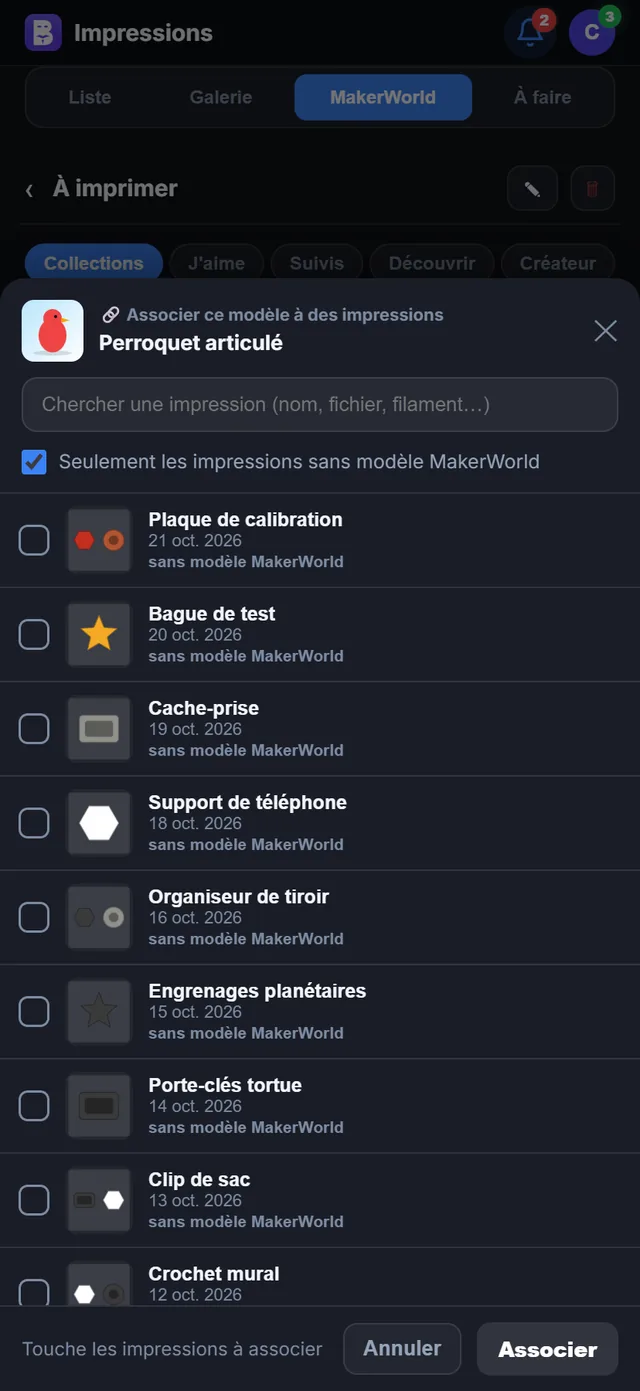
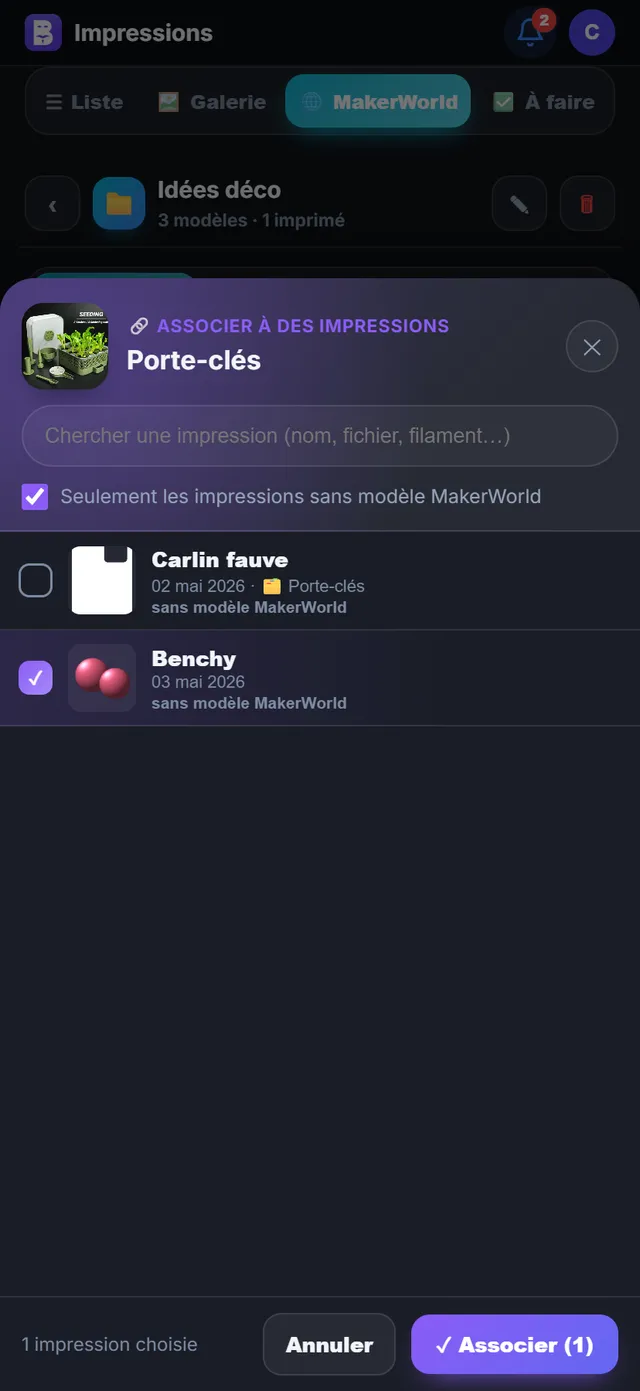
MakerWorld : fenêtre « Associer à des impressions » restylée (en-tête violet, recherche en pilule, coches et bouton en dégradé)

diff --git a/frontend/src/components/MwAssignPicker.jsx b/frontend/src/components/MwAssignPicker.jsx
@@ -70,29 +70,31 @@ export default function MwAssignPicker() {
     <div onClick={clear} style={{ position:"fixed", inset:0, zIndex:4500, background:"rgba(0,0,0,0.55)", display:"flex",
       alignItems:"flex-end", justifyContent:"center" }}>
       <div onClick={e => e.stopPropagation()} style={{ width:"100%", maxWidth:560, height:"min(720px, 90dvh)", display:"flex",
-        flexDirection:"column", background:"var(--sheet-bg, var(--surface))", borderRadius:"16px 16px 0 0",
+        flexDirection:"column", background:"var(--sheet-bg, var(--surface))", borderRadius:"22px 22px 0 0",
         boxShadow:"0 -8px 30px rgba(0,0,0,.35)", overflow:"hidden" }}>
         {/* le modele a associer */}
-        <div style={{ padding:"14px 14px 10px", display:"flex", flexDirection:"column", gap:10, borderBottom:"1px solid var(--border)" }}>
-          <div style={{ display:"flex", alignItems:"center", gap:10 }}>
+        <div style={{ padding:"16px 14px 12px", display:"flex", flexDirection:"column", gap:10, borderBottom:"1px solid var(--border)",
+          background:"radial-gradient(circle at 12% 30%, rgba(139,92,246,0.35), transparent 60%), linear-gradient(135deg, rgba(139,92,246,0.14), transparent 70%), var(--surface2)" }}>
+          <div style={{ display:"flex", alignItems:"center", gap:12 }}>
             {item.cover_url
-              ? <img src={mwImg(item.cover_url, 44)} alt="" style={{ width:40, height:40, borderRadius:8, objectFit:"cover", flexShrink:0 }}/>
-              : <span style={{ width:40, height:40, borderRadius:8, background:"var(--surface2)", flexShrink:0 }}/>}
+              ? <img src={mwImg(item.cover_url, 120)} alt="" style={{ width:56, height:56, borderRadius:14, objectFit:"cover", flexShrink:0,
+                  boxShadow:"0 8px 18px -8px rgba(0,0,0,.5)" }}/>
+              : <span style={{ width:56, height:56, borderRadius:14, background:"var(--surface)", flexShrink:0 }}/>}
             <div style={{ flex:1, minWidth:0 }}>
-              <div style={{ fontSize:11, color:"var(--muted)", fontWeight:700 }}>🔗 Associer ce modèle à des impressions</div>
-              <div style={{ fontSize:13.5, fontWeight:800, color:"var(--text)", overflow:"hidden", textOverflow:"ellipsis",
+              <div style={{ fontSize:11.5, color:"#8B5CF6", fontWeight:900, letterSpacing:".04em", textTransform:"uppercase" }}>🔗 Associer à des impressions</div>
+              <div style={{ fontSize:17, fontWeight:900, color:"var(--text)", overflow:"hidden", textOverflow:"ellipsis",
                 whiteSpace:"nowrap" }}>{title}</div>
             </div>
-            <button type="button" onClick={clear} aria-label="Fermer" style={{ background:"none", border:"none", fontSize:20,
-              color:"var(--muted)", cursor:"pointer", lineHeight:1 }}>✕</button>
+            <button type="button" onClick={clear} aria-label="Fermer" style={{ width:34, height:34, borderRadius:"50%", border:"1px solid var(--border)",
+              background:"var(--surface)", fontSize:15, color:"var(--text2)", cursor:"pointer", flexShrink:0 }}>✕</button>
           </div>
           <input value={q} onChange={e => setQ(e.target.value)} placeholder="Chercher une impression (nom, fichier, filament…)"
             autoComplete="off" spellCheck={false}
-            style={{ width:"100%", boxSizing:"border-box", padding:"9px 12px", borderRadius:10, fontSize:13,
-              background:"var(--surface2)", border:"1px solid var(--border)", color:"var(--text)", outline:"none" }}/>
+            style={{ width:"100%", boxSizing:"border-box", height:40, padding:"0 14px", borderRadius:20, fontSize:13.5,
+              background:"var(--surface)", border:"1px solid var(--border)", color:"var(--text)", outline:"none" }}/>
           <label style={{ display:"flex", alignItems:"center", gap:8, fontSize:12.5, color:"var(--text2)", cursor:"pointer" }}>
             <input type="checkbox" checked={unlinked} onChange={e => setUnlinked(e.target.checked)}
-              style={{ width:16, height:16, accentColor:"#3b82f6" }}/>
+              style={{ width:17, height:17, accentColor:"#8B5CF6" }}/>
             Seulement les impressions sans modèle MakerWorld
           </label>
         </div>
@@ -107,13 +109,13 @@ export default function MwAssignPicker() {
               return (
                 <button key={r.id} type="button" onClick={() => toggle(r.id)} style={{ width:"100%", display:"flex", alignItems:"center",
                   gap:10, padding:"8px 12px", border:"none", borderBottom:"1px solid var(--border)", textAlign:"left", cursor:"pointer",
-                  background: on ? "rgba(59,130,246,0.10)" : "none", color:"var(--text)" }}>
-                  <span style={{ width:20, height:20, borderRadius:6, flexShrink:0, display:"flex", alignItems:"center", justifyContent:"center",
-                    border: on ? "none" : "1.5px solid var(--muted)", background: on ? "#3b82f6" : "none", color:"#fff", fontSize:12,
+                  background: on ? "linear-gradient(90deg, rgba(139,92,246,0.16), transparent 70%)" : "none", color:"var(--text)" }}>
+                  <span style={{ width:22, height:22, borderRadius:7, flexShrink:0, display:"flex", alignItems:"center", justifyContent:"center",
+                    border: on ? "none" : "1.5px solid var(--muted)", background: on ? "linear-gradient(135deg, #8B5CF6, #A78BFA)" : "none", color:"#fff", fontSize:12,
                     fontWeight:900 }}>{on ? "✓" : ""}</span>
                   <Thumb id={r.id}/>
                   <span style={{ flex:1, minWidth:0 }}>
-                    <span style={{ display:"block", fontSize:12.5, fontWeight:700, overflow:"hidden", textOverflow:"ellipsis",
+                    <span style={{ display:"block", fontSize:13.5, fontWeight:800, overflow:"hidden", textOverflow:"ellipsis",
                       whiteSpace:"nowrap" }}>{r.name}</span>
                     <span style={{ display:"block", fontSize:11, color:"var(--muted)", overflow:"hidden", textOverflow:"ellipsis",
                       whiteSpace:"nowrap" }}>{fmtDate(r.date)}{r.group ? ` · 🗂 ${r.group}` : ""}</span>
@@ -126,7 +128,7 @@ export default function MwAssignPicker() {
             })}
           {next != null && rows?.length > 0 && (
             <button type="button" onClick={() => load(next)} style={{ width:"100%", padding:12, border:"none", background:"none",
-              color:"#3b82f6", fontWeight:700, fontSize:12.5, cursor:"pointer" }}>Afficher plus</button>
+              color:"#8B5CF6", fontWeight:800, fontSize:13, cursor:"pointer" }}>⬇ Afficher plus</button>
           )}
         </div>
         <div style={{ padding:"10px 14px calc(10px + env(safe-area-inset-bottom,0px))", borderTop:"1px solid var(--border)",
@@ -136,11 +138,12 @@ export default function MwAssignPicker() {
             {[...sel].some(id => rows?.find(r => r.id === id && r.design_id && String(r.design_id) !== String(item.design_id)))
               && <span style={{ display:"block", color:"#d97706" }}>Certaines ont déjà un autre modèle : il sera remplacé.</span>}
           </span>
-          <button type="button" onClick={clear} style={{ padding:"8px 12px", borderRadius:9, border:"1px solid var(--border)",
-            background:"var(--surface)", color:"var(--text2)", cursor:"pointer", fontWeight:700 }}>Annuler</button>
-          <button type="button" onClick={apply} disabled={busy || !sel.size} style={{ padding:"8px 14px", borderRadius:9, border:"none",
-            fontWeight:800, color:"#fff", background: sel.size ? "#3b82f6" : "var(--border)", cursor: sel.size ? "pointer" : "default" }}>
-            {busy ? "…" : "Associer"}</button>
+          <button type="button" onClick={clear} style={{ padding:"10px 14px", borderRadius:12, border:"1px solid var(--border)",
+            background:"var(--surface2)", color:"var(--text)", cursor:"pointer", fontWeight:800 }}>Annuler</button>
+          <button type="button" onClick={apply} disabled={busy || !sel.size} style={{ padding:"10px 16px", borderRadius:12, border:"none",
+            fontWeight:800, color:"#fff", background: sel.size ? "linear-gradient(135deg, #8B5CF6, #6366F1)" : "var(--border)",
+            boxShadow: sel.size ? "0 8px 18px -10px #8B5CF6" : "none", cursor: sel.size ? "pointer" : "default" }}>
+            {busy ? "…" : sel.size ? `✓ Associer (${sel.size})` : "Associer"}</button>
         </div>
       </div>
     </div>, document.body);

diff --git a/backend/guide/pages/makerworld.html b/backend/guide/pages/makerworld.html
@@ -349,9 +349,9 @@
     <h3>Associer un modèle à des impressions <span class="admin">admin</span></h3>
     <p>Quand une impression a été lancée depuis Bambu Studio ou une carte SD, l'appli ne sait pas toujours de quel modèle MakerWorld elle vient. <span class="ui">🔗 Associer à un print</span> (fiche ou menu d'une tuile) répare ça :</p>
     <ol>
-      <li>La fenêtre « 🔗 Associer ce modèle à des impressions » s'ouvre au-dessus de ton historique.</li>
+      <li>La fenêtre « 🔗 Associer à des impressions » s'ouvre au-dessus de ton historique, avec la couverture et le nom du modèle en tête.</li>
       <li>Cherche avec <span class="ui">Chercher une impression (nom, fichier, filament…)</span>. La case <span class="ui">Seulement les impressions sans modèle MakerWorld</span>, cochée par défaut, ne montre que celles qui n'ont pas encore de lien ; décoche-la pour tout voir.</li>
-      <li>Touche les impressions concernées, puis <span class="ui">Associer</span>. Si certaines avaient déjà un autre modèle, l'appli prévient qu'il sera remplacé.</li>
+      <li>Touche les impressions concernées (une coche violette les marque), puis <span class="ui">✓ Associer (N)</span>. Si certaines avaient déjà un autre modèle, l'appli prévient qu'il sera remplacé.</li>
     </ol>
     <figure class="phone"><img src="img/makerworld-associer.webp" alt="Fenêtre Associer ce modèle à des impressions, liste des impressions sans modèle"><figcaption>Choisir les impressions à relier au modèle.</figcaption></figure>
     <p>Pour rattraper d'un coup les vieux prints, voir aussi <a href="#makerworld-reglages-historique">Historique cloud Bambu</a>.</p>
